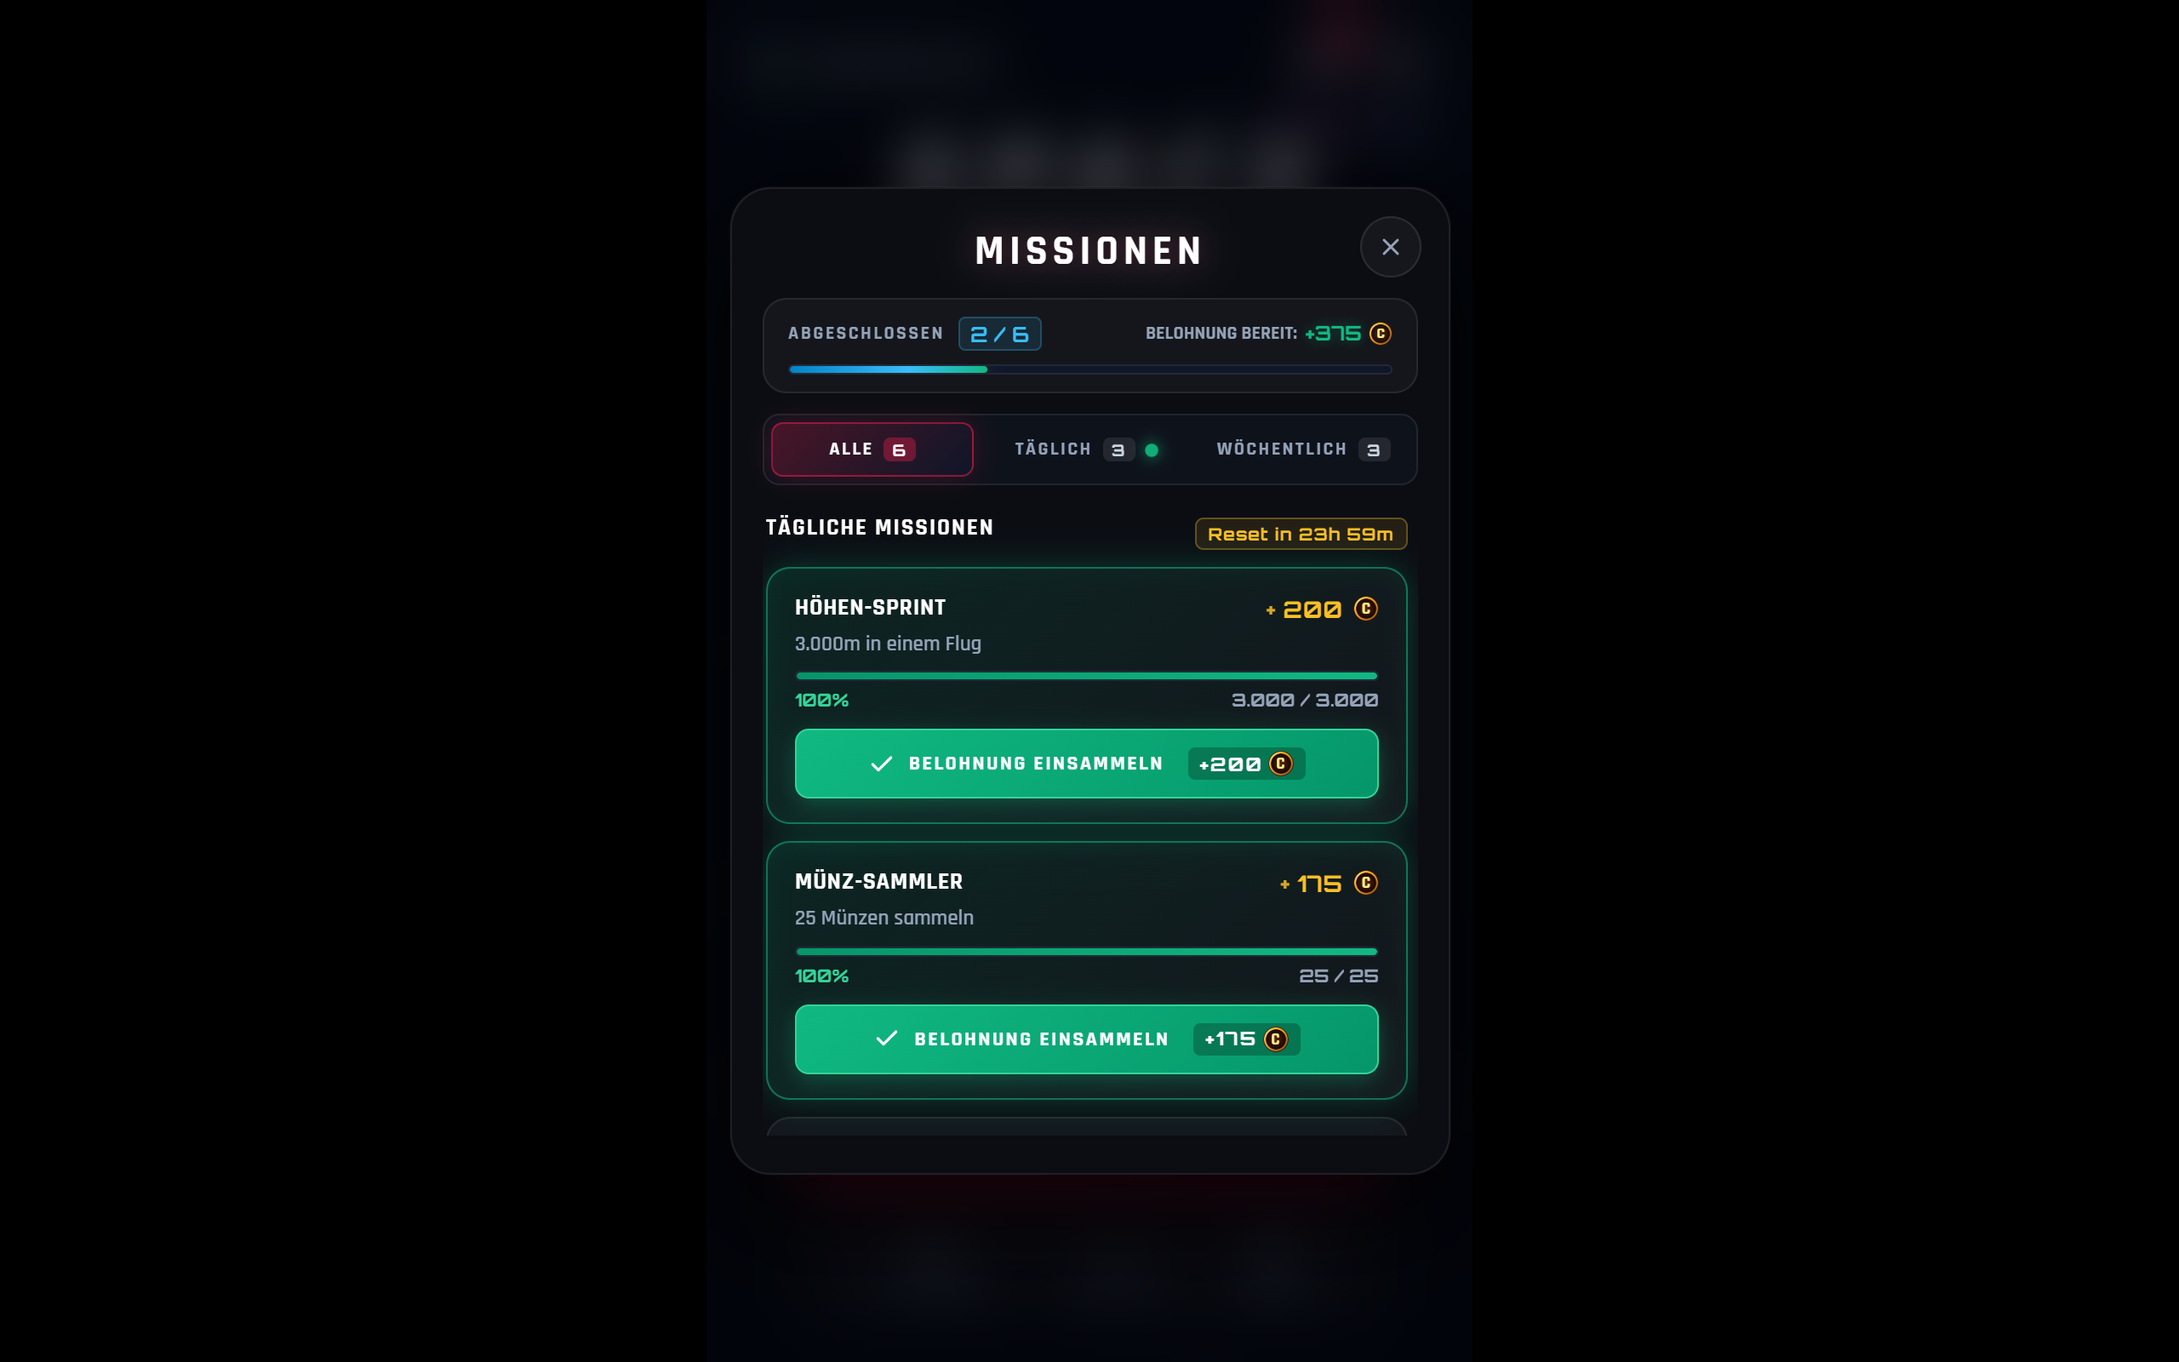
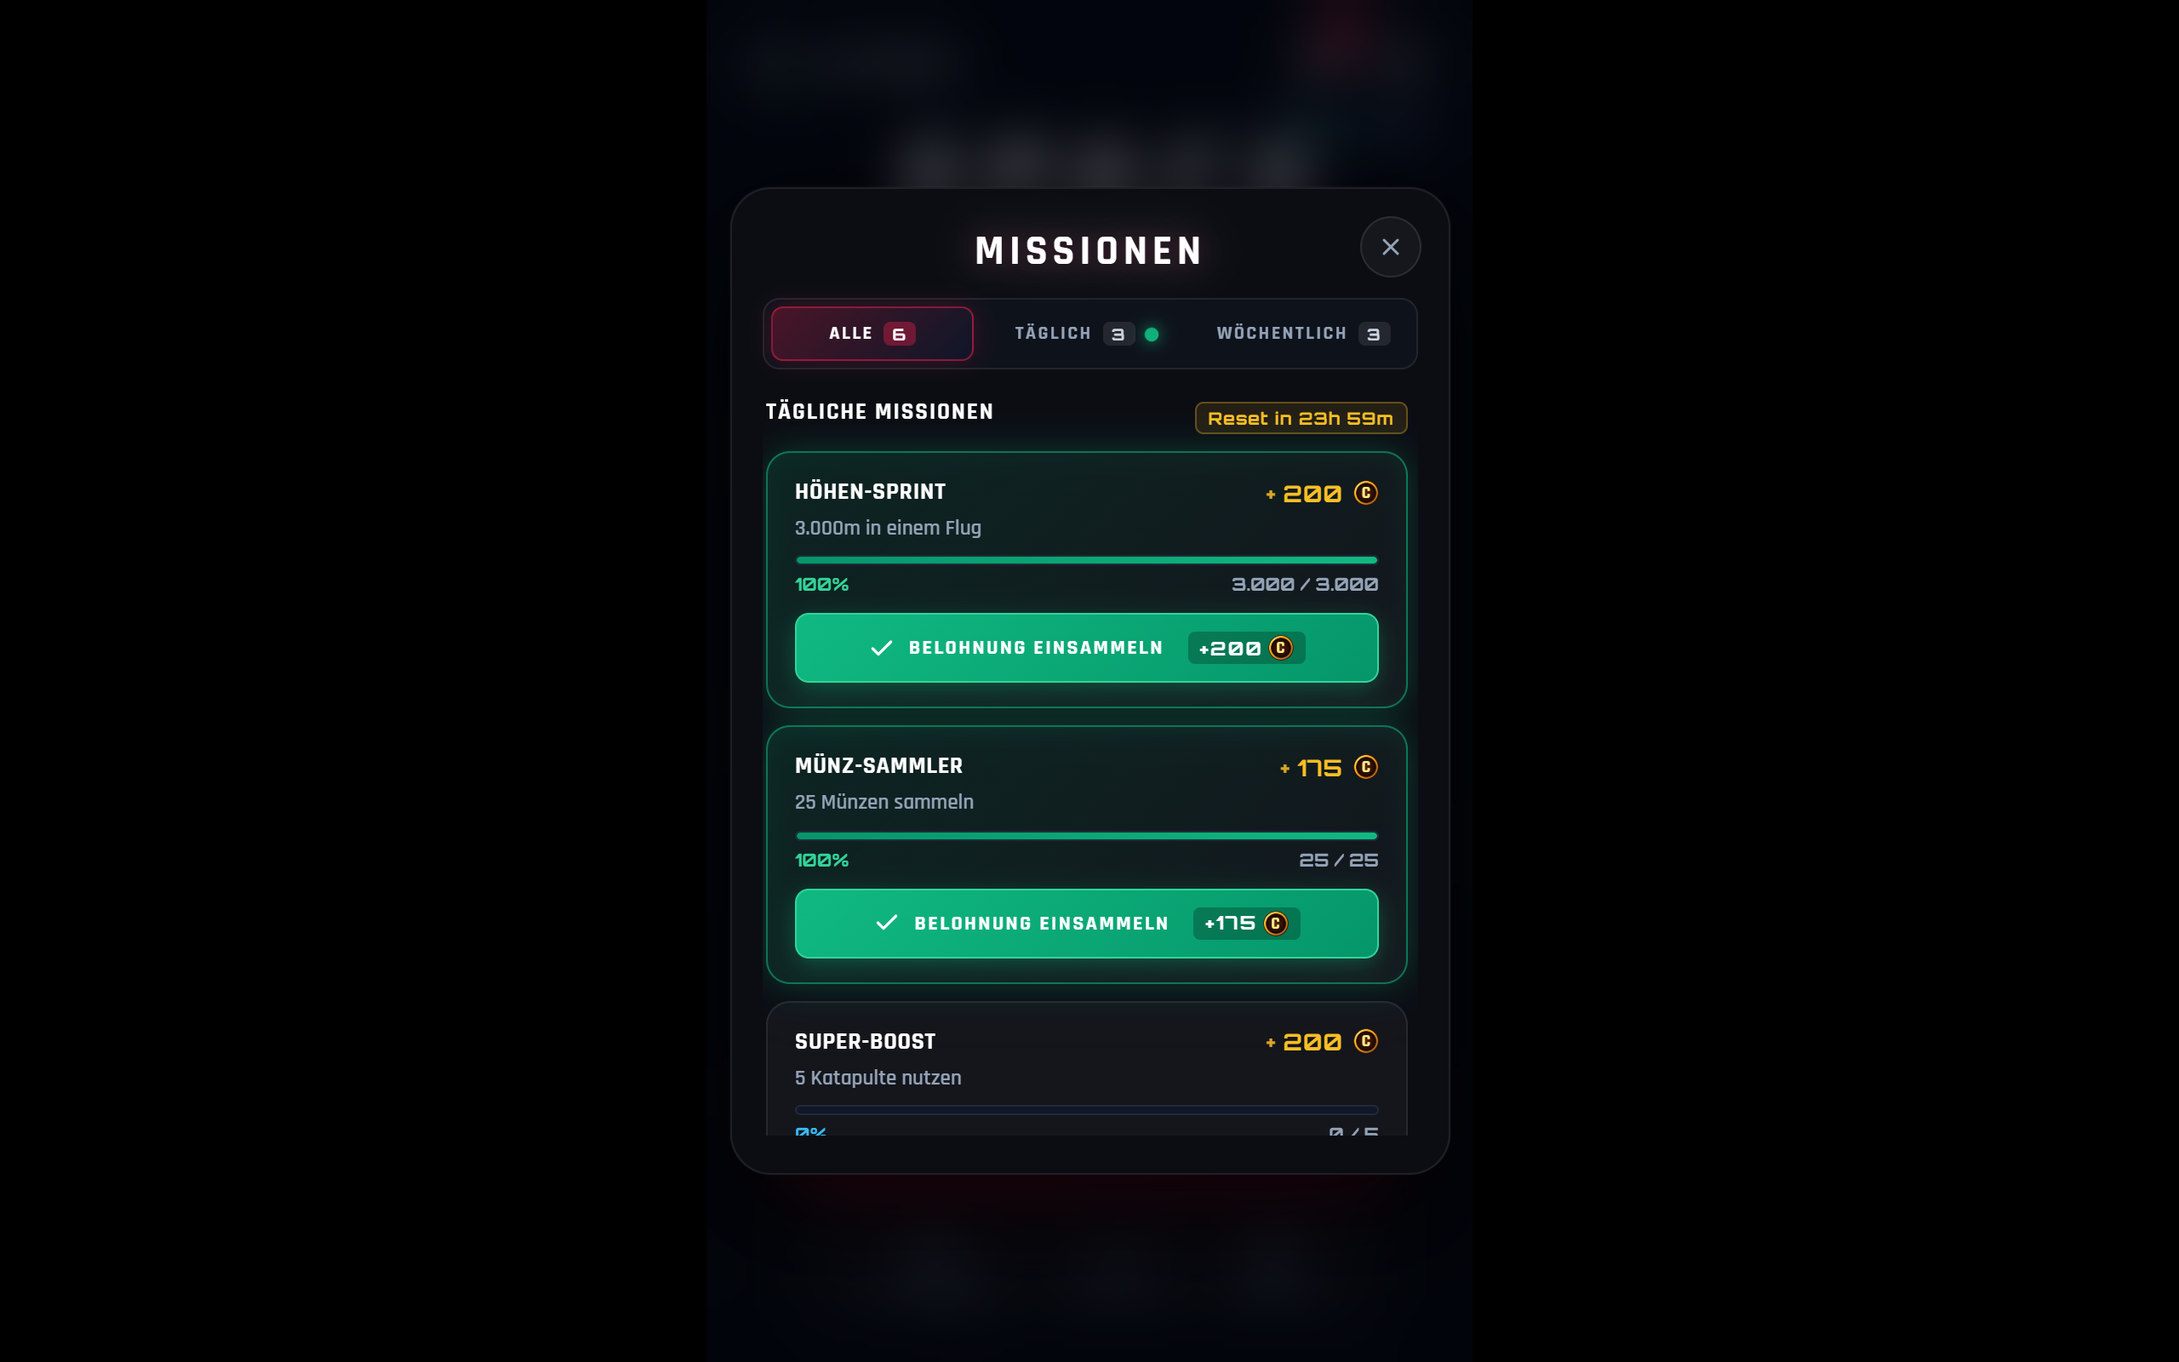
Remove mission overview box, streamline missions modal, bump to 5.16.8

Changed region(s): [[0.3438, 0.2188, 0.6562, 0.8438], [0.4688, 0.3125, 0.5312, 0.3438]]

diff --git a/css/style.css b/css/style.css
@@ -3324,122 +3324,6 @@ canvas#gameCanvas {
   text-shadow: 0 0 16px rgba(225, 29, 72, 0.25);
 }
 
-/* Global Missions Progress Bar */
-.missions-overview-bar {
-  background: rgba(255, 255, 255, 0.035);
-  border: 1px solid rgba(255, 255, 255, 0.08);
-  border-radius: 14px;
-  padding: 10px 14px;
-  margin-bottom: 12px;
-  backdrop-filter: blur(16px);
-  -webkit-backdrop-filter: blur(16px);
-}
-
-.missions-overview-top {
-  display: flex;
-  justify-content: space-between;
-  align-items: center;
-  margin-bottom: 8px;
-}
-
-.missions-progress-meta {
-  display: flex;
-  align-items: center;
-  gap: 8px;
-}
-
-.missions-overview-label {
-  font-family: var(--font-ui);
-  font-size: 11px;
-  font-weight: 800;
-  letter-spacing: 1.2px;
-  color: #94a3b8;
-  text-transform: uppercase;
-}
-
-.missions-overview-ratio {
-  font-family: 'Orbitron', monospace;
-  font-size: 12.5px;
-  font-weight: 800;
-  color: #38bdf8;
-  background: rgba(56, 189, 248, 0.12);
-  border: 1px solid rgba(56, 189, 248, 0.25);
-  padding: 1px 6px;
-  border-radius: 4px;
-}
-
-.missions-rewards-pending {
-  font-family: var(--font-ui);
-  font-size: 11px;
-  font-weight: 800;
-  color: #94a3b8;
-  display: flex;
-  align-items: center;
-  gap: 5px;
-}
-
-.missions-rewards-pending .pending-label {
-  display: inline-flex;
-  align-items: center;
-  line-height: 1;
-}
-
-.missions-rewards-pending .pending-val {
-  color: #fbbf24;
-  font-family: 'Orbitron', monospace;
-  font-size: 11.5px;
-  font-weight: 800;
-  display: inline-flex;
-  align-items: center;
-  gap: 4px;
-  line-height: 1;
-}
-
-.missions-rewards-pending.has-unclaimed .pending-val {
-  color: #10b981;
-  font-family: 'Orbitron', monospace;
-  font-size: 12px;
-  font-weight: 800;
-  text-shadow: 0 0 8px rgba(16, 185, 129, 0.4);
-}
-
-.missions-rewards-pending .pending-val .pending-num {
-  display: inline-flex;
-  align-items: center;
-  line-height: 1;
-}
-
-.missions-rewards-pending .pending-val .currency-icon {
-  width: 14px !important;
-  height: 14px !important;
-  vertical-align: middle !important;
-  margin-top: -1px;
-}
-
-.missions-rewards-pending .all-done-badge {
-  color: #10b981;
-  letter-spacing: 1px;
-  font-size: 10px;
-  line-height: 1;
-}
-
-.missions-meter-bg {
-  width: 100%;
-  height: 6px;
-  background: rgba(15, 23, 42, 0.9);
-  border: 1px solid rgba(255, 255, 255, 0.08);
-  border-radius: 4px;
-  overflow: hidden;
-}
-
-.missions-meter-fill {
-  height: 100%;
-  background: linear-gradient(90deg, #0284c7 0%, #38bdf8 60%, #10b981 100%);
-  border-radius: 4px;
-  transition: width 0.3s ease;
-  box-shadow: 0 0 10px rgba(56, 189, 248, 0.4);
-}
-
 /* Category Filter Tabs */
 .missions-filter-tabs {
   display: flex;

diff --git a/js/engine/UIManager.js b/js/engine/UIManager.js
@@ -118,10 +118,6 @@ class UIManager {
       weeklyQuestsList: document.getElementById('weekly-quests-list'),
       menuQuestsBadge: document.getElementById('menu-quests-badge'),
       btnQuestsClose: document.getElementById('btn-quests-close'),
-      missionsCompletedRatio: document.getElementById('missions-completed-ratio'),
-      missionsRewardsPending: document.getElementById('missions-rewards-pending'),
-      missionsPendingAmount: document.getElementById('missions-pending-amount'),
-      missionsMeterFill: document.getElementById('missions-meter-fill'),
       tabMissionsAll: document.getElementById('tab-missions-all'),
       tabMissionsDaily: document.getElementById('tab-missions-daily'),
       tabMissionsWeekly: document.getElementById('tab-missions-weekly'),
@@ -1655,29 +1651,6 @@ class UIManager {
     const unclaimedTotal = unclaimedQuests.length;
     const unclaimedDailies = dailies.filter(q => q.isComplete && !q.isClaimed).length;
     const unclaimedWeeklies = weeklies.filter(q => q.isComplete && !q.isClaimed).length;
-    const pendingTotalReward = unclaimedQuests.reduce((sum, q) => sum + (q.reward || 0), 0);
-
-    // Update Overview Header
-    if (this.dom.missionsCompletedRatio) {
-      this.dom.missionsCompletedRatio.textContent = `${completedCount} / ${totalCount}`;
-    }
-    if (this.dom.missionsMeterFill) {
-      const pct = totalCount > 0 ? Math.min(100, Math.round((completedCount / totalCount) * 100)) : 0;
-      this.dom.missionsMeterFill.style.width = `${pct}%`;
-    }
-    if (this.dom.missionsPendingAmount && this.dom.missionsRewardsPending) {
-      if (unclaimedTotal > 0) {
-        this.dom.missionsPendingAmount.innerHTML = `<span class="pending-num">+${pendingTotalReward.toLocaleString('de-DE')}</span>${UIManager.COIN_SVG}`;
-        this.dom.missionsRewardsPending.classList.add('has-unclaimed');
-      } else if (claimedCount === totalCount && totalCount > 0) {
-        this.dom.missionsPendingAmount.innerHTML = '<span class="all-done-badge">ALLE EINGELÖST</span>';
-        this.dom.missionsRewardsPending.classList.remove('has-unclaimed');
-      } else {
-        this.dom.missionsPendingAmount.innerHTML = `<span class="pending-num">0</span>${UIManager.COIN_SVG}`;
-        this.dom.missionsRewardsPending.classList.remove('has-unclaimed');
-      }
-    }
-
     // Update Tab Count Badges & Notification Dots
     if (this.dom.badgeCountAll) this.dom.badgeCountAll.textContent = totalCount.toString();
     if (this.dom.badgeCountDaily) this.dom.badgeCountDaily.textContent = dailies.length.toString();

diff --git a/index.html b/index.html
@@ -513,23 +513,6 @@
           <div class="modal-title missions-title">MISSIONEN</div>
         </div>
 
-        <!-- Global Mission Progress Hero Banner -->
-        <div class="missions-overview-bar" id="missions-overview-bar">
-          <div class="missions-overview-top">
-            <div class="missions-progress-meta">
-              <span class="missions-overview-label">ABGESCHLOSSEN</span>
-              <span class="missions-overview-ratio" id="missions-completed-ratio">0 / 5</span>
-            </div>
-            <div class="missions-rewards-pending" id="missions-rewards-pending">
-              <span class="pending-label">BELOHNUNG BEREIT:</span>
-              <span class="pending-val" id="missions-pending-amount"><span class="pending-num">0</span></span>
-            </div>
-          </div>
-          <div class="missions-meter-bg">
-            <div class="missions-meter-fill" id="missions-meter-fill" style="width: 0%;"></div>
-          </div>
-        </div>
-
         <!-- Segmented Category Navigation Tabs -->
         <div class="missions-filter-tabs" role="tablist">
           <button class="missions-tab-btn active" id="tab-missions-all" data-tab="all" type="button">
@@ -661,7 +644,7 @@
           <button class="btn-settings-action btn-settings-update" id="btn-check-update" type="button">NACH UPDATES SUCHEN</button>
           <button class="btn-settings-action btn-settings-danger" id="btn-reset-data" type="button">SPIELSTAND ZURÜCKSETZEN</button>
         </div>
-        <div class="settings-version-tag">SLING JUMP v5.16.7</div>
+        <div class="settings-version-tag">SLING JUMP v5.16.8</div>
       </div>
     </div>
 

diff --git a/sw.js b/sw.js
@@ -1,9 +1,9 @@
 /**
  * Sling Jump - Service Worker (PWA Offline & Instant Updates)
- * Version: 5.16.7
+ * Version: 5.16.8
  * Architecture: Network-First for Navigation (HTML), Stale-While-Revalidate for Assets
  */
-const CACHE_NAME = 'sling-jump-v5.16.7';
+const CACHE_NAME = 'sling-jump-v5.16.8';
 
 const PRECACHE_ASSETS = [
   './',

diff --git a/js/config/Constants.js b/js/config/Constants.js
@@ -4,7 +4,7 @@
  */
 
 const CONSTANTS = {
-  VERSION: '5.16.7',
+  VERSION: '5.16.8',
   STORAGE_KEY: 'sling_jump_save_v2',
 
   // Physics & Mechanics

diff --git a/GAME_SYSTEMS.md b/GAME_SYSTEMS.md
@@ -1,6 +1,6 @@
 # Sling Jump - Game Systems & Technical Specification Manual
 
-> Live Version: 5.16.7 | Architecture: Decoupled Vanilla Canvas 2D Engine | Standard: Zero GC, 60+ FPS
+> Live Version: 5.16.8 | Architecture: Decoupled Vanilla Canvas 2D Engine | Standard: Zero GC, 60+ FPS
 
 ---
 
@@ -136,7 +136,7 @@ Procedural generation (`WorldManager.js`) scales density, node types, and lethal
 - Dynamic gameplay nodes are hidden during menu/modal states to preserve background starfield clarity.
 - **Mission Hub Architecture (`#quests-modal`):**
   - **Fixed Geometric Stability:** Enforces constant card height (`height: 580px; max-height: 88vh`) with `flex: 1; min-height: 0;` on `.quests-scroll-area`. Guarantees zero height-jumping or layout flutter when toggling category filters (`ALLE`, `TÄGLICH`, `WÖCHENTLICH`).
-  - **Floating-Dock Glassmorphism Parity:** Cards (`.quest-card`) and progress hero (`.missions-overview-bar`) match the bottom navigation dock (`background: rgba(255, 255, 255, 0.035)`, `border: 1px solid rgba(255, 255, 255, 0.08)`, `backdrop-filter: blur(16px)`). Left accent bar (`::before`), mission icons, and redundant tags (`TAG` / `WOCHE`) stripped for commercial arcade minimalism.
+  - **Floating-Dock Glassmorphism Parity:** Mission cards (`.quest-card`) match the bottom navigation dock (`background: rgba(255, 255, 255, 0.035)`, `border: 1px solid rgba(255, 255, 255, 0.08)`, `backdrop-filter: blur(16px)`). Left accent bar (`::before`), mission icons, and redundant tags (`TAG` / `WOCHE`) stripped for commercial arcade minimalism. Redundant top overview banner removed to maximize vertical space for quest objectives.
 
 ### 7.4 Flight Debrief (Death Screen) Trajectory & Crash Reticle
 - **Trajectory Spline Coincidence:** In `UIManager.updateDebriefTrajectory()`, procedural ascent curve applies an envelope $\sin(t \cdot \pi)$ to horizontal sway, guaranteeing that at $t = 1$ the spline coordinate mathematically equals the true crash point $(x_{\text{crash}}, y_{\text{crash}})$.
@@ -202,13 +202,12 @@ Procedural generation (`WorldManager.js`) scales density, node types, and lethal
   - Rounded geometry: `border-radius: 24px;`
   - High-depth aerospace shadow: `box-shadow: 0 24px 64px rgba(0, 0, 0, 0.9), 0 0 1px rgba(255, 255, 255, 0.1);`
 - **Fixed Height Geometry:** Strict height of `580px` (`max-height: 88vh`) with `display: flex; flex-direction: column;` prevents height jumps between tabs (`ALLE`, `TÄGLICH`, `WÖCHENTLICH`).
-- **Internal Card Hierarchy (`.quest-card`, `.missions-overview-bar`):**
+- **Internal Card Hierarchy (`.quest-card`):**
   - Floating-dock parity fill: `background: rgba(255, 255, 255, 0.035); backdrop-filter: blur(16px);` (exact match to main menu `.floating-dock`)
   - Hairline border: `border: 1px solid rgba(255, 255, 255, 0.08); border-radius: 14px;`
   - Category tabs container: `background: #0e121b; border: 1px solid rgba(255, 255, 255, 0.08);`
   - Header: Left-aligned title (`14px` bold pure white `#ffffff`), top-right reward text (`+ ... C` in `Orbitron:wght@800` gold `#fbbf24` with vector bullion coin).
   - Clean description (`12.5px`, `#94a3b8`) followed by full-width progress bar and status actions.
-  - Overview Bar Pending Rewards: `.pending-label` and `.pending-val` harmonized via `inline-flex` with centered 14px bullion coin SVG and -1px optical top offset, achieving 100% horizontal centerline parity between Rajdhani label, Orbitron numbers, and credit icon.
   - Zero emojis across all cards, tabs, and headers.
 
 

diff --git a/GAME_STATUS.md b/GAME_STATUS.md
@@ -1,6 +1,6 @@
 # Sling Jump - Offizieller Spielstand & Historische Projekt-Dokumentation
 
-> **Status:** Release Candidate (v5.16.7 - Settings Modal Floating-Dock & Mission Parity Redesign)  
+> **Status:** Release Candidate (v5.16.8 - Mission Modal Minimalist Header & Overview Box Removal)  
 > **Permanenter Live-Link (24/7):** [`https://bauerjohannes2-max.github.io/sling-jump/`](https://bauerjohannes2-max.github.io/sling-jump/)  
 > **Repository:** [`https://github.com/bauerjohannes2-max/sling-jump`](https://github.com/bauerjohannes2-max/sling-jump)  
 > **Hosting:** GitHub Pages Global Edge CDN (SSL/HTTPS, PWA Offline Support)  
@@ -267,6 +267,11 @@
 - **Dynamisches Rank-Overlay:** Erst nach Absolvierung des ersten Flugs mit erzielten Metern (`bestAltitude > 0`) erscheint das goldene Rang-Badge (`#${rank}`).
 - **Entfernung FPS-Playwright-Runner:** `scripts/benchmark_fps.js` und `scripts/stress_test_gameplay.js` sowie `08b_gameplay_fps_hud.png` und `package.json` `"test:fps"` restlos entfernt zur Maximierung der Token-Effizienz.
 - **Komprimierung aller Markdown-Dateien:** Sämtliche `.md`-Dokumente auf dichte, token-effiziente Fakten komprimiert (-75% Token-Last).
+
+### v5.16.8 (06.09.2026) - Mission Modal Streamlining & Overview Header Removal
+- **Missions-Header Bereinigung:** Obere Übersicht-Box (`#missions-overview-bar` mit "ABGESCHLOSSEN 0/6" & Belohnungsanzeige) vollständig aus HTML, CSS und JS-DOM entfernt.
+- **Maximaler Fokus & Vertikaler Freiraum:** Direkter Übergang vom Titel `MISSIONEN` auf die Kategorien-Tabs (`ALLE`, `TÄGLICH`, `WÖCHENTLICH`), mehr Platz für Missionskarten ohne Scroll-Gedränge.
+- **Codebase-Hygiene:** Verwaiste CSS-Klassen und ungenutzte DOM-Cache-Bindings in `UIManager.js` restlos bereinigt.
 
 ### v5.16.7 (06.09.2026) - Version Single Source of Truth & Settings Parity
 - **Versions-Synchronisation:** `CONSTANTS.VERSION`, `package.json`, `version.json`, `sw.js`, `index.html` und `GAME_SYSTEMS.md` auf einheitliche Release-Version `5.16.7` gehoben.

diff --git a/architecture.md b/architecture.md
@@ -76,8 +76,8 @@
   - Project-wide red theme synchronized to the title plate `#e11d48` across CSS variables (`--accent-crimson`, `--danger`, `--btn-crimson-*`), buttons, ship chevrons, mine entities, collision shards, death laser horizon, debrief reticle, and developer dashboard.
 - **Mission Hub Architecture (`#quests-modal`):**
   - Rigid height geometry (`580px`, `flex: 1; min-height: 0;` scroll area) guarantees absolute stability with zero height shifting across category filter changes (`ALLE`, `TÄGLICH`, `WÖCHENTLICH`).
-  - Solid dark modal base (`#0b0d13` modal fill, `1px solid rgba(255, 255, 255, 0.08)` border) with floating-dock parity fill (`rgba(255, 255, 255, 0.035)`, `backdrop-filter: blur(16px)`) applied to `.missions-overview-bar` and `.quest-card`.
+  - Solid dark modal base (`#0b0d13` modal fill, `1px solid rgba(255, 255, 255, 0.08)` border) with floating-dock parity fill (`rgba(255, 255, 255, 0.035)`, `backdrop-filter: blur(16px)`) applied to `.quest-card`.
+  - Minimalist direct category filter navigation (`ALLE`, `TÄGLICH`, `WÖCHENTLICH`) positioned directly below title lockup without redundant progress header bar for maximum vertical space and clarity.
   - Minimalist top-right reward lockup (`.quest-card-reward`, `+ ... C`) with transparent background, zero border box, and full-width progress meter. Enlarged tracked section titles (`13.5px`, bold white) with nowrap protection.
-  - Pending rewards lockup (`.missions-rewards-pending`) aligns Rajdhani text, Orbitron digits, and 14px bullion coin SVG on a unified optical centerline via `inline-flex` and precision top offset.
 
 

diff --git a/screenshots/LATEST_RUN.md b/screenshots/LATEST_RUN.md
@@ -1,14 +1,15 @@
 # Playwright Visual Verification Report
-> **Laufzeit:** 6.9.2026, 20:14:36  
-> **Modus:** Selektiv (`07_settings`)  
+> **Laufzeit:** 6.9.2026, 20:20:25  
+> **Modus:** Selektiv (`05_hub_quests, 07_settings`)  
 > **Status:** BESTANDEN (0 Konsolenfehler)  
-> **Frisch erfasste Screenshots in diesem Lauf:** 1  
+> **Frisch erfasste Screenshots in diesem Lauf:** 2  
 > **Garantierte Frische:** Alle unten aufgeführten Dateien wurden in diesem Testlauf frisch erzeugt.
 
 ### Frisch erfasste Screenshots
 | Datei | Zweck | Uhrzeit | Dateigröße | SHA-256 Prüfsumme |
 | :--- | :--- | :--- | :--- | :--- |
-| `07_settings.png` | Settings Modal | 20:14:35 | 203 KB | `38e250d6bb40d762` |
+| `05_hub_quests.png` | Quests Active | 20:20:22 | 378 KB | `d442d6557a38db0f` |
+| `07_settings.png` | Settings Modal | 20:20:23 | 212 KB | `8f9be9c72af3175a` |
 
 
 ### Gesamter Screenshot-Bestand (22 Dateien)
@@ -31,8 +32,8 @@
 | `14_dashboard_locked.png` | 19:10:43 | 45 KB |
 | `14b_dashboard_unlocked.png` | 19:10:44 | 202 KB |
 | `05b_hub_quests_claimed.png` | 19:53:04 | 288 KB |
-| `05_hub_quests.png` | 19:58:29 | 378 KB |
 | `05c_hub_quests_scrolled.png` | 19:58:30 | 195 KB |
 | `05d_hub_quests_tab_weekly.png` | 19:58:31 | 195 KB |
 | `05e_hub_quests_tab_daily.png` | 19:59:36 | 339 KB |
-| `07_settings.png` | 20:14:35 | 203 KB |
+| `05_hub_quests.png` | 20:20:22 | 378 KB |
+| `07_settings.png` | 20:20:23 | 212 KB |
